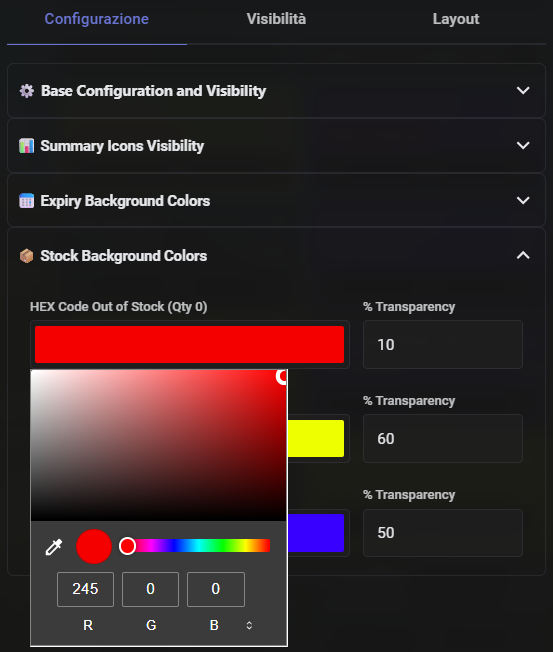
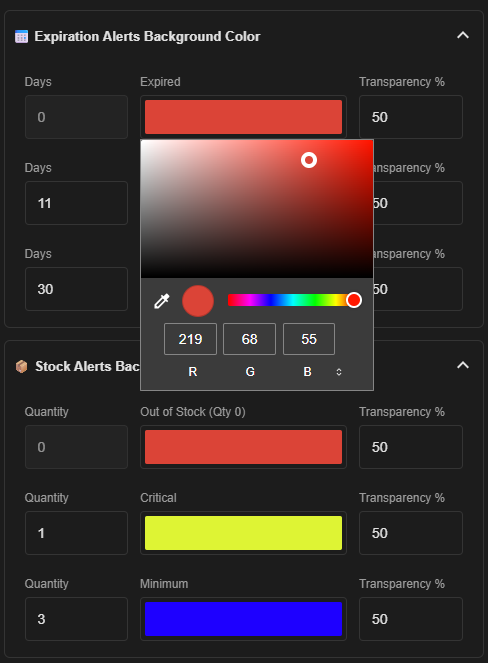
Release-1.0.4

diff --git a/README.md b/README.md
@@ -82,7 +82,7 @@ All card preferences can be managed and expanded via the integrated **Lovelace V
 ## 🛠 Tech Stack
 
 1. **Core Backend:** Simple Inventory Python Integration (Home Assistant custom component).
-2. **Scanner Engine:** Html5-QRCode (Local JavaScript library loaded *on-demand* to decode EAN-13, EAN-8, and Code-128 formats).
+2. **Scanner Engine:** Html5-QRCode v 2.3.8 (Local JavaScript library loaded *on-demand* to decode EAN-13, EAN-8, and Code-128 formats).
 3. **Database Provider:** Open Food Facts API v3 (Open-source database used to pull product metadata).
 
 ---
@@ -111,10 +111,8 @@ Ensure the official Home Assistant app (or Chrome on mobile) has system permissi
 
 Upcoming card releases will focus on performance enhancements, interactive shortcuts, and refined UI layouts:
 
-* ⚡ **Editor Optimization:** Refactor the configuration script to accelerate initial loading times for the Lovelace visual editor.
 * 📦 **Official HACS Submission:** Register the card in the public HACS repository to enable direct installation without manual URL entries.
-* 🔗 **To-Do List Shortcut:** Allow tapping directly on a product's linked shopping list icon to open the corresponding Home Assistant list in a popup.
-* 🔔 **Custom Warning Days Logic:** Implement a feature using user-defined "warning days" so expiry alerts (yellow/orange card highlighting) trigger based on custom thresholds rather than fixed 10- or 30-day windows.
+* 🔗 **To-Do List Shortcut:** Allow tapping directly on a icon to open the corresponding list in a popup.
 * 📐 **Import/Export UI Redesign:** Relocate Import and Export controls to a more discreet, integrated location within the layout.
 
 ---
@@ -217,7 +215,7 @@ Tutte le preferenze della card possono essere gestite ed estese comodamente tram
 ## 🛠 Tecnologie Utilizzate
 
 1. **Backend Core:** Simple Inventory Python Integration (componente personalizzato per Home Assistant).
-2. **Motore di Scansione:** Html5-QRCode (libreria JavaScript locale integrata *on-demand* per la decodifica dei formati EAN-13, EAN-8 e Code-128).
+2. **Motore di Scansione:** Html5-QRCode v 2.3.8 (libreria JavaScript locale integrata *on-demand* per la decodifica dei formati EAN-13, EAN-8 e Code-128).
 3. **Database Informazioni:** Open Food Facts API v3 (servizio open-source per l'estrazione delle schede tecniche dei prodotti).
 
 ---
@@ -246,10 +244,8 @@ Assicurati che l'applicazione ufficiale di Home Assistant (o Google Chrome su mo
 
 Le prossime versioni della card si concentreranno sull'ottimizzazione delle performance, su nuove scorciatoie interattive e su una migliore disposizione degli elementi:
 
-* ⚡ **Ottimizzazione Editor:** Ottimizzare lo script di configurazione per rendere molto più veloce e reattivo il caricamento iniziale dell'editor visuale Lovelace.
 * 📦 **Pubblicazione ufficiale su HACS:** Registrare la card come archivio ufficiale nel catalogo pubblico di HACS per consentire l'installazione automatica senza inserire l'URL.
-* 🔗 **Scorciatoia Liste To-Do:** Introdurre la possibilità di cliccare direttamente sull'icona della lista della spesa associata a un prodotto per aprire istantaneamente la relativa lista di Home Assistant in un popup.
-* 🔔 **Logica Giorni di Preavviso:** Sviluppare un sistema che sfrutti attivamente i "giorni di preavviso" impostati, in modo da far attivare l'allerta di scadenza (sfondo giallo/arancione della tessera) esattamente al raggiungimento della soglia personalizzata di giorni inserita dall'utente, anziché basarsi su intervalli fissi a 10 o 30 giorni.
+* 🔗 **Scorciatoia Liste To-Do:** Introdurre la possibilità di cliccare direttamente sull'icona del riepilogo per aprire istantaneamente la relativa lista di Home Assistant in un popup.
 * 📐 **Restyling Interfaccia Import/Export:** Riposizionare i tasti di Import ed Export in una zona più strategica, discreta e visivamente integrata nel layout della card.
 
 ---
